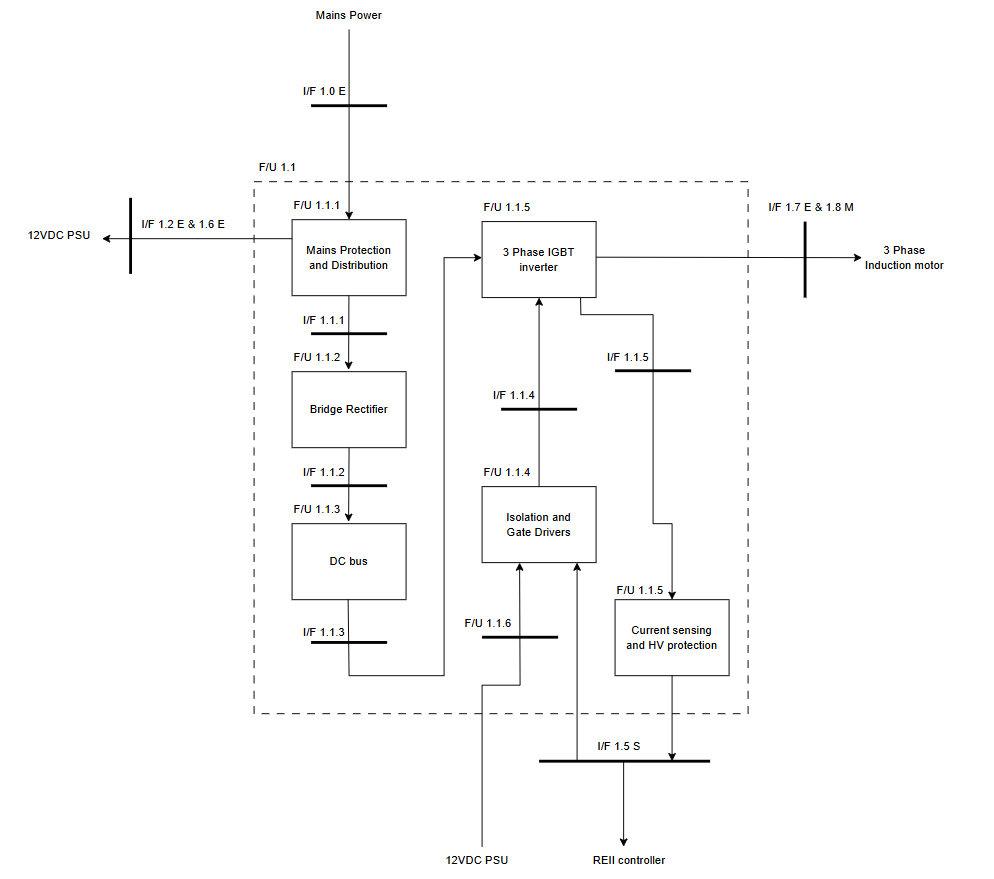
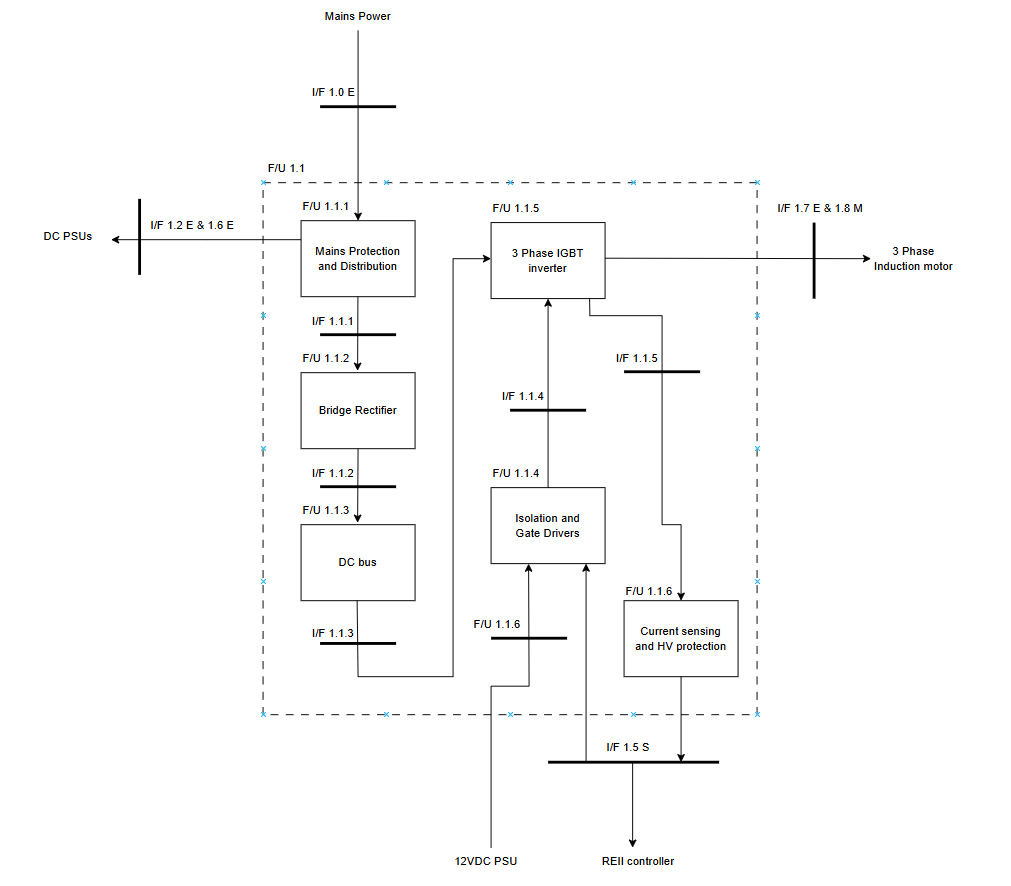
EEII I finished summary and F/Us

diff --git a/EngineeringDesign_Group18_Report/content/03_system_design.tex b/EngineeringDesign_Group18_Report/content/03_system_design.tex
@@ -55,7 +55,14 @@ and 1.8 M. Figure~\ref{fig:arch-eeri1} shows the internal architecture of the su
 Table~\ref{tab:functional-units-eeri1} lists its three functional units. I additon to supplying them motor
 EEII I is responsible for mains protection and distirubtion to the low voltage power supplies.
 The subsystem also provides local protection against overcurrent and shoot-through conditions and
-supplies current measurement feedback to the REII controller.
+supplies current measurement feedback to the REII controller. The mains enter through I/F 1.0 E. 
+The protected mains is supplied to the low voltage power supplies through I/F 1.2 E and 1.6 E. The
+protected mains is also rectified and filtered to provide a DC bus for the inverter, which interfaces with
+the induction motor through I/F 1.7 E. The motor interfaces mechanically with MCTR II through I/F 1.8 M.
+Contorl commands are received form the REII controller through I/F 1.5 S through the isolation and gate
+drivers. These control commands include the PWM signals used by the diver ICs to switch the IGBTs in the
+inverter. The inverter also provides current feedback to the REII controller through I/F 1.5 S.
+
 
 \begin{figure}[H]
     \centering
@@ -67,15 +74,29 @@ supplies current measurement feedback to the REII controller.
 
 \begin{table}[H]
     \centering
-    \caption{Operational Functional Units.}
+    \caption{Functional units of the EEII I drive electronics subsystem (F/U 1.1)}
     \label{tab:functional-units-eeri1}
     \begin{tabular}{@{} l l p{7cm} @{}}
         \toprule
         \textbf{F/U ID} & \textbf{Name} & \textbf{Description} \\
         \midrule
-        F/U 1.0 & [Subsystem A] & [What this functional unit does.] \\
-        F/U 2.0 & [Subsystem B] & [What this functional unit does.] \\
-        F/U 3.0 & [Subsystem C] & [What this functional unit does.] \\
+        F/U 1.1.1 & Mains Protection and Distribution
+        & Receives the 230VAC mains supply and provides protected distribution to the low voltage 
+        power supplies and drive electronics. This stage also contains the hardware isolation and emergency
+        disconnect for high voltage applications. \\
+        F/U 1.1.2 & Bridge Rectifier
+         & Converts the 230VAC into a unregulated DC supply for the DC bus. \\
+        F/U 1.1.3 & DC Bus
+         & Smooths and stores the DC voltage for the inverter using a bulk capacitor. \\
+        F/U 1.1.4 & Isolation and Gate Drivers
+         & Provides electrical isolation between the REII controller and the high voltage drive electronics.
+         The Driver ICs convert the incomming PWM signals into appropriate gate drive signals used to switch 
+         the IGBTs in the inverter. \\
+        F/U 1.1.5 & 3 Phase IGBT Inverter
+         & Uses 6 IGBTs arranged in 3 half-bridges to convert DC to 3-phase AC. \\
+        F/U 1.1.6 & Current sensing and HV Protection
+         & Measures the drive current and provides the controller with a conditioned current feedback signal
+         below 2.048V. \\
         \bottomrule
     \end{tabular}
 \end{table}
@@ -245,18 +266,24 @@ This section lists each of the interfaces introduced above organised according t
 \subsection{Mechanical Interfaces}
 \label{subsec:mechanical-interfaces}
 \begin{itemize}
+    \item \textbf{EEII I:} I/F 1.8~M connect the 3-phase induction motor to MCTR II (motor shaft to gearbox).
     \item \textbf{MCTR II:} I/F 1.1~M (hoist baseplate to MCTR I mounting plate), I/F 1.3~M (rope to magnetic attachment), I/F 1.8~M (motor shaft to gearbox), and internal I/F \fuMII.1~M (gearbox to drum), \fuMII.3~M (brake to shaft), \fuMII.4~M (rope to load cell).
 \end{itemize}
 
 \subsection{Electrical Interfaces}
 \label{subsec:electrical-interfaces}
 \begin{itemize}
+    \item \textbf{EEII I:} I/F 1.0 supplies mains power to the drive electronics subsystem. 
+    I/F 1.2 E and I/F 1.6 E supply to the required DC power supplies. I/F 1.7 E provides the 3-phase AC to the
+    induction motor.
     \item \textbf{MCTR II:} I/F 1.7~E (motor power from EEII~I) and internal I/F \fuMII.2~E (Brake PSU to brake coil).
 \end{itemize}
 
 \subsection{Signal Interfaces}
 \label{subsec:signal-interfaces}
 \begin{itemize}
+    \item \textbf{EEII I:} I/F 1.5 S connects the REII controller to the drive electronics. The controller is
+    electrically isolated from the high voltage of the inverter (supplied PWM signbals).
     \item \textbf{MCTR II:} I/F 1.9~S (HX711 to controller), I/F 1.10~S (brake release command) and internal I/F \fuMII.5~S (load cell to HX711).
 \end{itemize}
 
